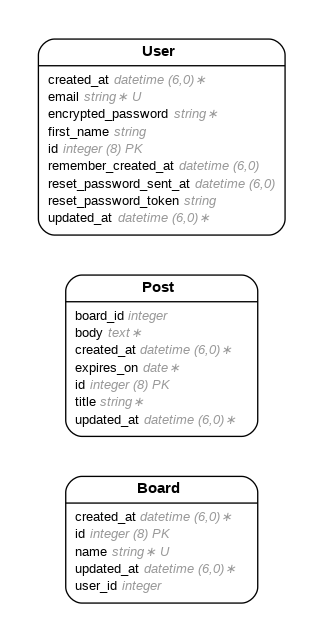
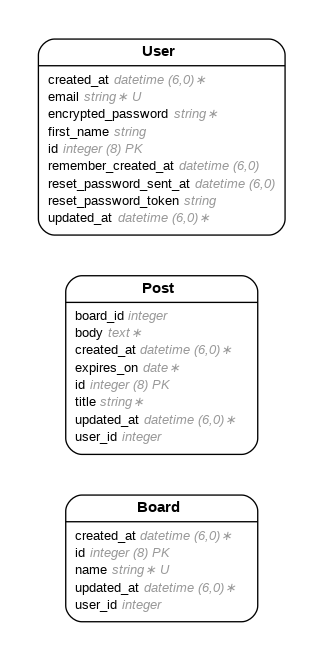
adder user id to posts manually

diff --git a/db/schema.rb b/db/schema.rb
@@ -10,7 +10,7 @@
 #
 # It's strongly recommended that you check this file into your version control system.
 
-ActiveRecord::Schema[7.1].define(version: 2025_05_12_035218) do
+ActiveRecord::Schema[7.1].define(version: 2025_05_12_035303) do
   # These are extensions that must be enabled in order to support this database
   enable_extension "plpgsql"
 
@@ -28,6 +28,7 @@ ActiveRecord::Schema[7.1].define(version: 2025_05_12_035218) do
     t.integer "board_id"
     t.datetime "created_at", null: false
     t.datetime "updated_at", null: false
+    t.integer "user_id"
   end
 
   create_table "users", force: :cascade do |t|

diff --git a/app/models/post.rb b/app/models/post.rb
@@ -9,6 +9,7 @@
 #  created_at :datetime         not null
 #  updated_at :datetime         not null
 #  board_id   :integer
+#  user_id    :integer
 #
 class Post < ApplicationRecord
   validates(:title, presence: true)

diff --git a/db/migrate/20250512035303_add_user_id_to_posts.rb b/db/migrate/20250512035303_add_user_id_to_posts.rb
@@ -1,4 +1,5 @@
 class AddUserIdToPosts < ActiveRecord::Migration[7.1]
   def change
+        add_column :posts, :user_id, :integer
   end
 end
